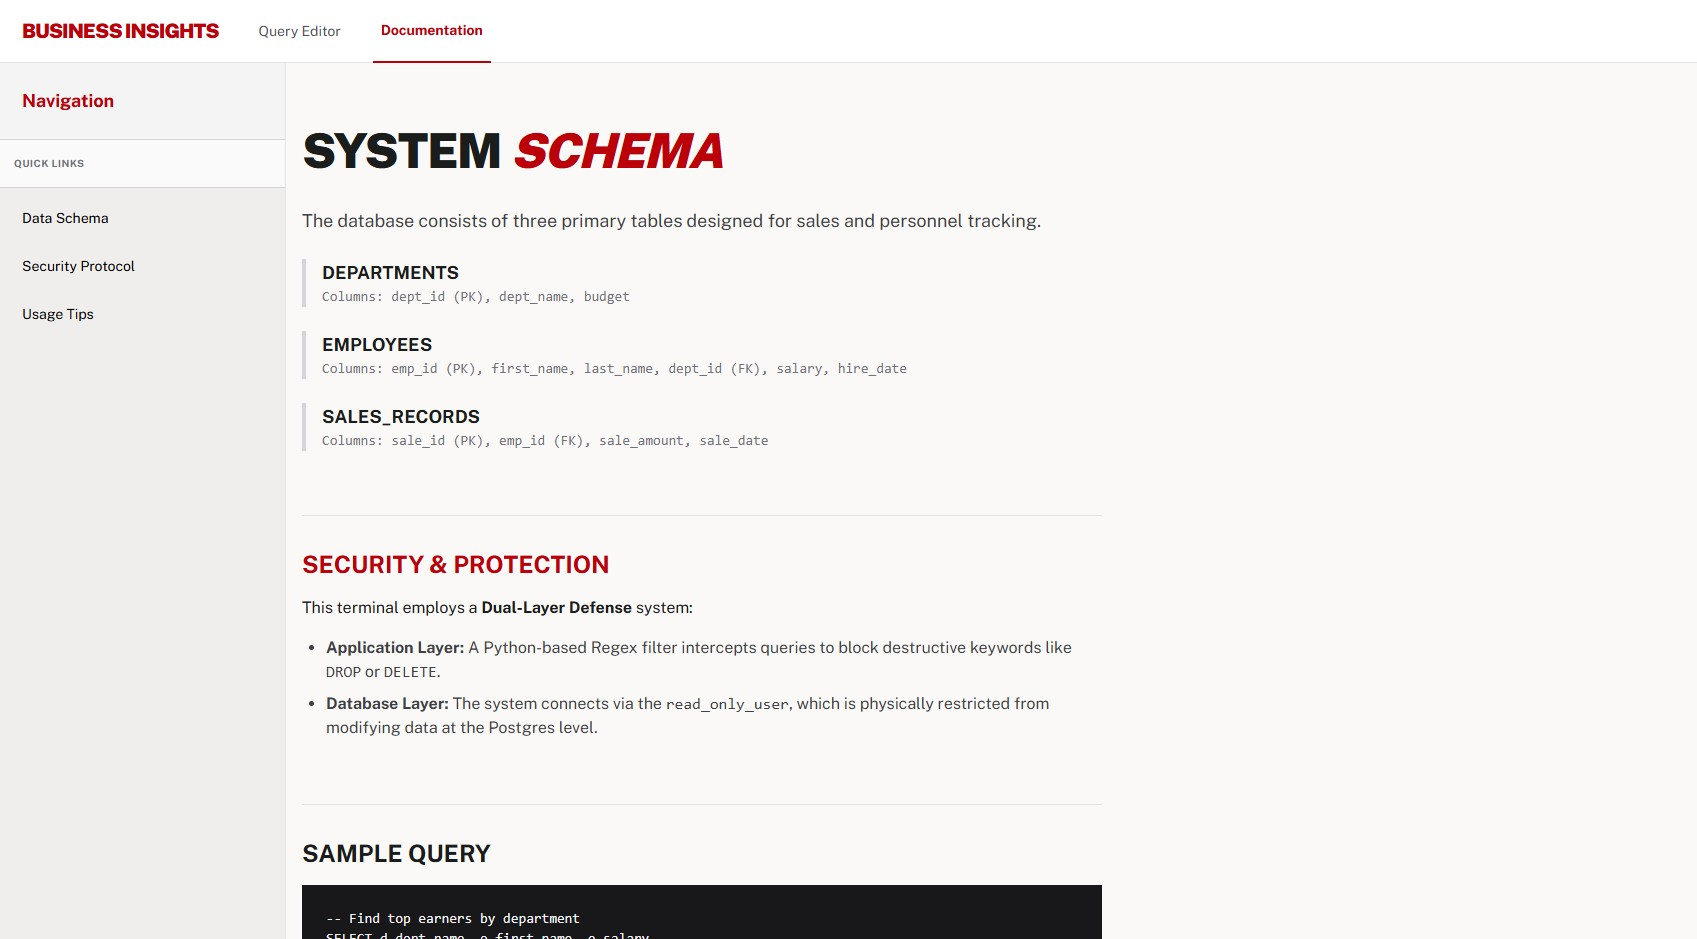
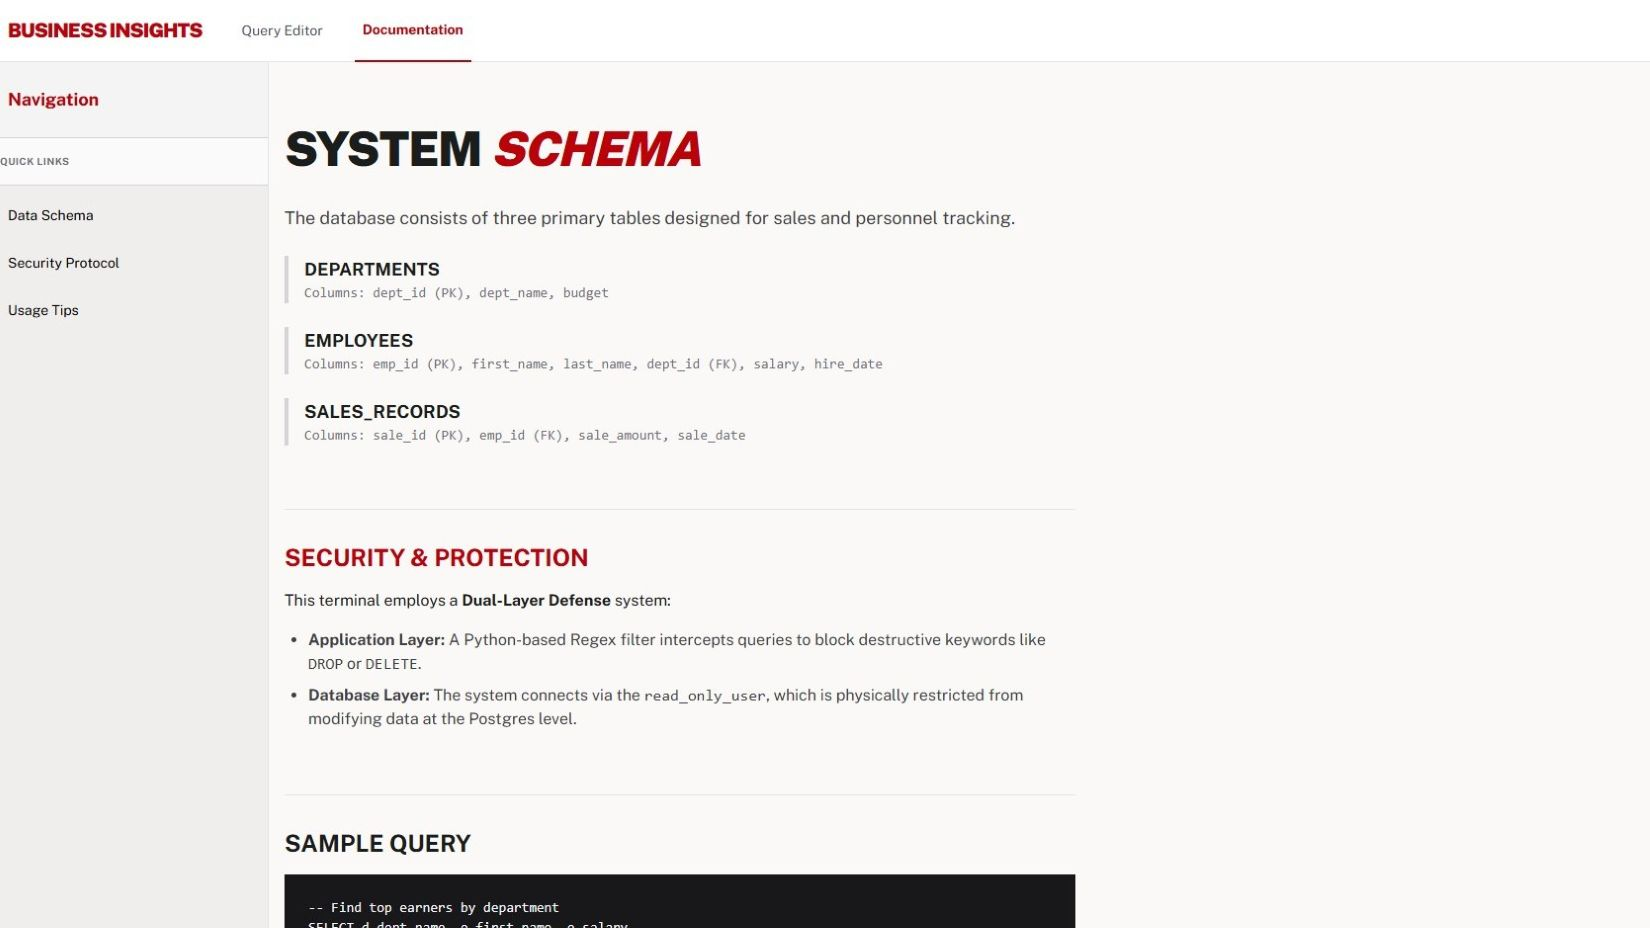
fixed images

diff --git a/README.md b/README.md
@@ -6,7 +6,7 @@ This project is a high-security SQL query and reporting tool. It is designed wit
 
 | Main Query Terminal | System Documentation |
 | :--- | :--- |
-| <img src="./docs/screenshots/index.jpg" height="300"> | <img src="./docs/screenshots/documentation.jpg" height="300"> |
+| <img src="./docs/screenshots/index.jpg"> | <img src="./docs/screenshots/documentation.jpg"> |
 | *The primary interface for executing read-only SQL queries with real-time regex filtering.* | *Detailed internal documentation accessible to authorized administrative users.* |
 
 ## 🚀 Deployment Checklist
